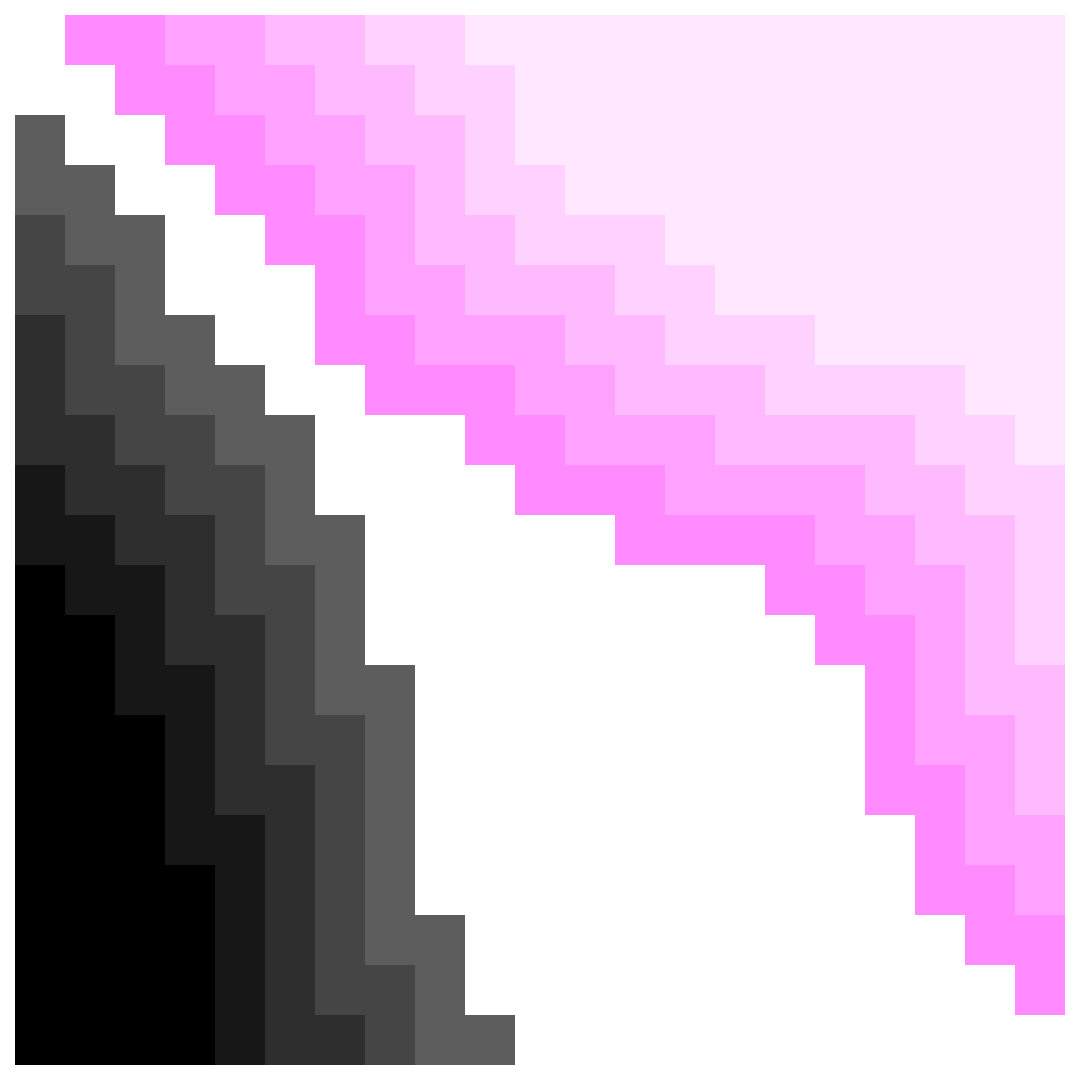
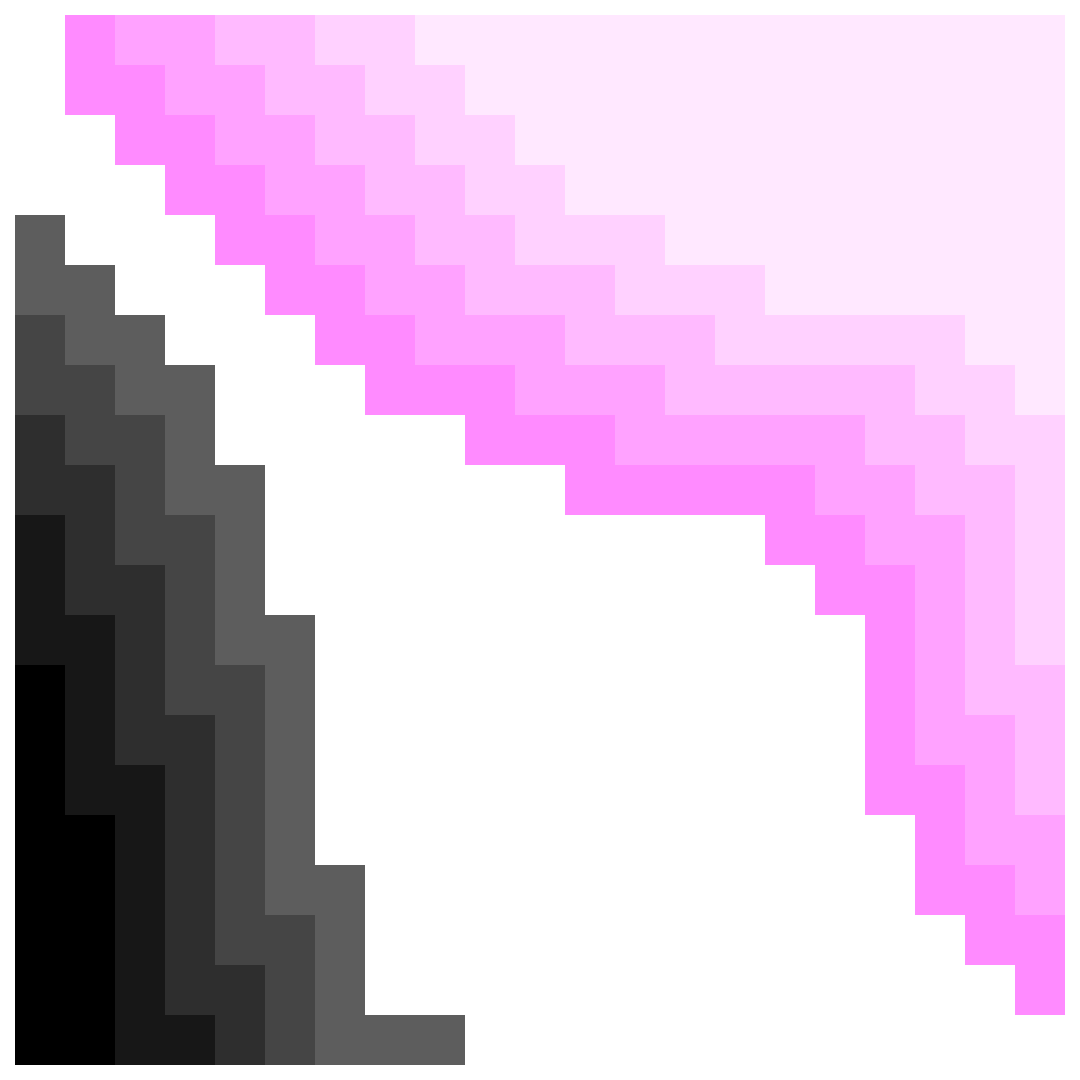
car rent

diff --git a/chap4/policy_iteration.go b/chap4/policy_iteration.go
@@ -148,15 +148,15 @@ func step(state *[2]int, action int) []*condition {
 	s1 := truncate(state[1] + action)
 	r0 := int(-2 * math.Abs(float64(action)))
 	m := make([]*condition, 0, 21*21*21*21)
-	for i1 := 0; i1 <= 20; i1++ { // request of first location
-		for j1 := 0; j1 <= 20; j1++ { // return of first location
-			for i2 := 0; i2 <= 20; i2++ { // request of second location
-				for j2 := 0; j2 <= 20; j2++ { // return of second location
-					s := &[2]int{truncate(s0 - i1 + j1), truncate(s1 - i2 + j2)}
-					r1 := int(math.Min(float64(i1), float64(s0+j1)))
-					r2 := int(math.Min(float64(i2), float64(s1+j2)))
+	for i1 := 0; i1 <= 20; i1++ { // return of first location
+		for j1 := 0; j1 <= truncate((s0 + i1)); j1++ { // request of first location
+			for i2 := 0; i2 <= 20; i2++ { // return of second location
+				for j2 := 0; j2 <= truncate((s1 + i2)); j2++ { // request of second location
+					s := &[2]int{truncate(s0 + i1 - j1), truncate(s1 + i2 - j2)}
+					r1 := int(math.Min(float64(j1), float64(s0+i1)))
+					r2 := int(math.Min(float64(j2), float64(s1+i2)))
 					r := float64(10*(r1+r2) + r0)
-					p := getPoissonProb(0, 0, i1) * getPoissonProb(0, 1, j1) * getPoissonProb(1, 0, i2) * getPoissonProb(1, 1, j2)
+					p := getPoissonProb(0, 0, j1) * getPoissonProb(0, 1, i1) * getPoissonProb(1, 0, j2) * getPoissonProb(1, 1, i2)
 					m = append(m, &condition{s, r, p})
 				}
 			}
@@ -242,7 +242,7 @@ func policyImprovement(value *[21][21]float64, policy *[21][21]int) bool {
 			current := time.Now()
 			cost := current.Sub(start)
 			start = current
-			fmt.Printf("%d changeds in policy_improvement cost: %f\n", c, cost.Seconds())
+			fmt.Printf("%d changes in policy_improvement cost: %f\n", c, cost.Seconds())
 		}
 
 	}
